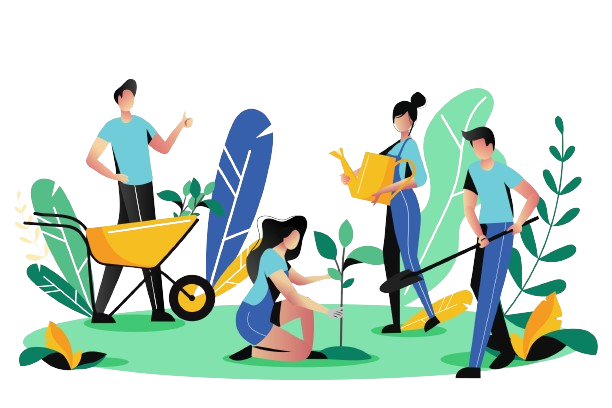
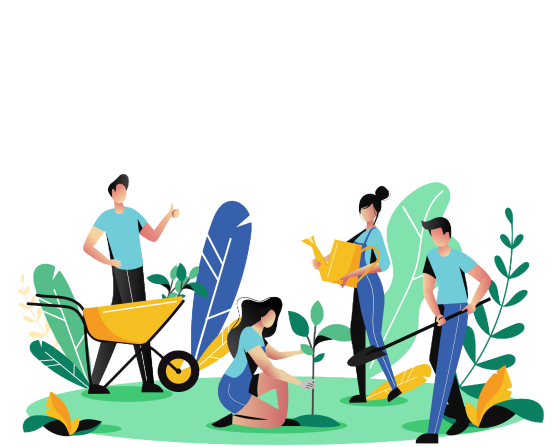
ajout sitemap + redimension image

diff --git a/index.html b/index.html
@@ -322,7 +322,7 @@
 
               <!-- Industry 1 -->
               <div id="industry-1" class="swiper-tab active">
-                <img src="assets/img/formation-de-formateurs_accueil.png" style="max-height: 424px;" class="rounded-3" alt="Image">
+                <img src="assets/img/formation-de-formateurs_accueil.png"  class="rounded-3" alt="Image">
               </div>
 
               <!-- Industry 2 -->
